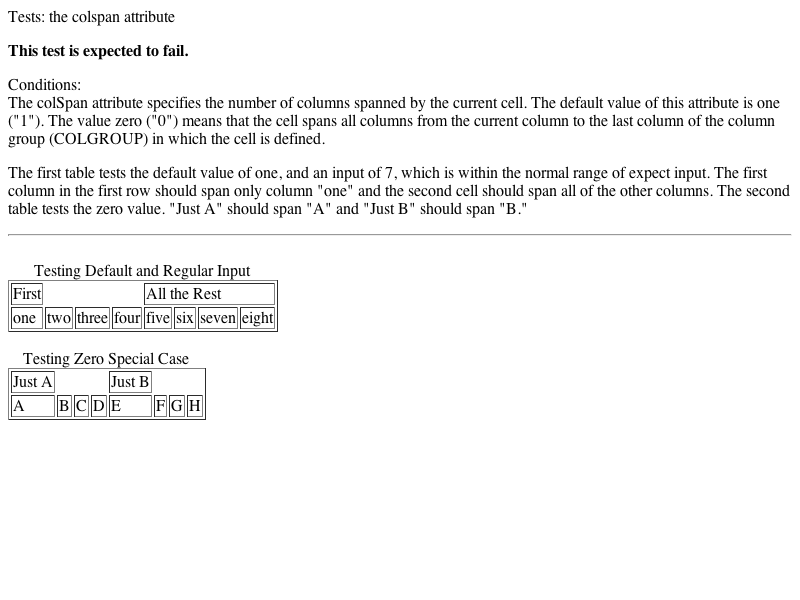
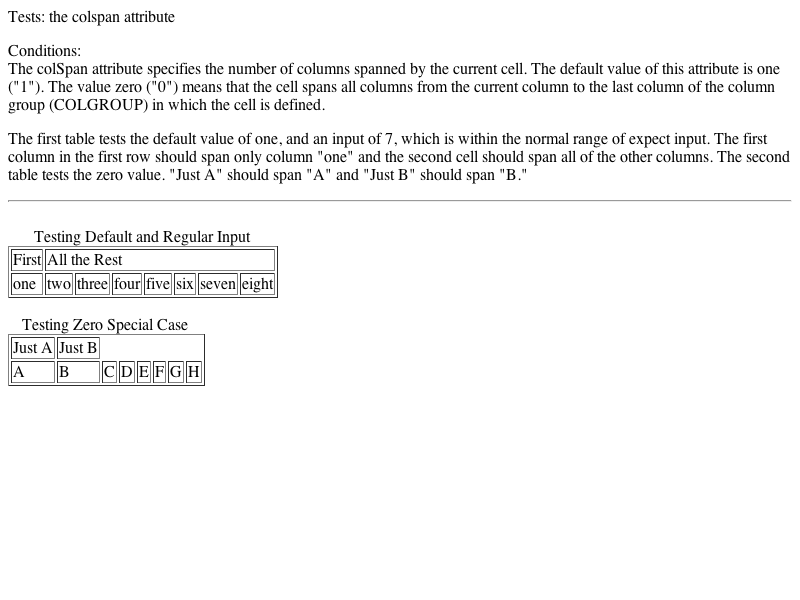
2007-01-15  Mitz Pettel  <mitz@webkit.org>
Reviewed by Darin.

        - fix http://bugs.webkit.org/show_bug.cgi?id=8604
          rowspan does not work when set through javascript

WebCore:
        * rendering/RenderTableCell.cpp:
        (WebCore::RenderTableCell::updateFromElement): Mark the section for grid recalc
        if row span or column span change.

LayoutTests:
        * fast/dom/HTMLTableElement/colSpan-expected.checksum: Updated.
        * fast/dom/HTMLTableElement/colSpan-expected.png: Updated.
        * fast/dom/HTMLTableElement/colSpan-expected.txt: Updated.
        * fast/dom/HTMLTableElement/colSpan.html: Removed comment about expected
        failure.
        * tables/mozilla/bugs/bug22246-2-expected.checksum: Added.
        * tables/mozilla/bugs/bug22246-2-expected.png: Added.
        * tables/mozilla/bugs/bug22246-2-expected.txt: Added.
        * tables/mozilla/bugs/bug22246-2a-expected.checksum: Added.
        * tables/mozilla/bugs/bug22246-2a-expected.png: Added.
        * tables/mozilla/bugs/bug22246-2a-expected.txt: Added.
        * tables/mozilla/bugs/bug22246-3-expected.checksum: Added.
        * tables/mozilla/bugs/bug22246-3-expected.png: Added.
        * tables/mozilla/bugs/bug22246-3-expected.txt: Added.
        * tables/mozilla/bugs/bug22246-3a-expected.checksum: Added.
        * tables/mozilla/bugs/bug22246-3a-expected.png: Added.
        * tables/mozilla/bugs/bug22246-3a-expected.txt: Added.
        * tables/mozilla_expected_failures/bugs/bug22246-2-expected.checksum: Removed.
[…]

Changed region(s): [[0.0, 0.06, 1.0, 0.36], [0.0, 0.39, 0.3438, 0.72]]

diff --git a/LayoutTests/fast/dom/HTMLTableElement/colSpan.html b/LayoutTests/fast/dom/HTMLTableElement/colSpan.html
@@ -22,8 +22,6 @@ x[1].colSpan="0"
 <body onload = "colSpanOne(); colSpanTwo()">
 <p>Tests: the colspan attribute<br>
 </p>
-<b>This test is expected to fail.</b>
-</p>
 <p>Conditions:<br>
 The colSpan attribute specifies the number of columns spanned by the current cell. The default value of 
 this attribute is one ("1"). The value zero ("0") means that the cell spans all columns from the current 

diff --git a/WebCore/rendering/RenderTableCell.cpp b/WebCore/rendering/RenderTableCell.cpp
@@ -69,8 +69,11 @@ void RenderTableCell::updateFromElement()
 
         m_columnSpan = tc->colSpan();
         m_rowSpan = tc->rowSpan();
-        if ((oldRSpan != m_rowSpan || oldCSpan != m_columnSpan) && style() && parent())
+        if ((oldRSpan != m_rowSpan || oldCSpan != m_columnSpan) && style() && parent()) {
             setNeedsLayoutAndMinMaxRecalc();
+            if (section())
+                section()->setNeedsCellRecalc();
+        }
     }
 }
 
